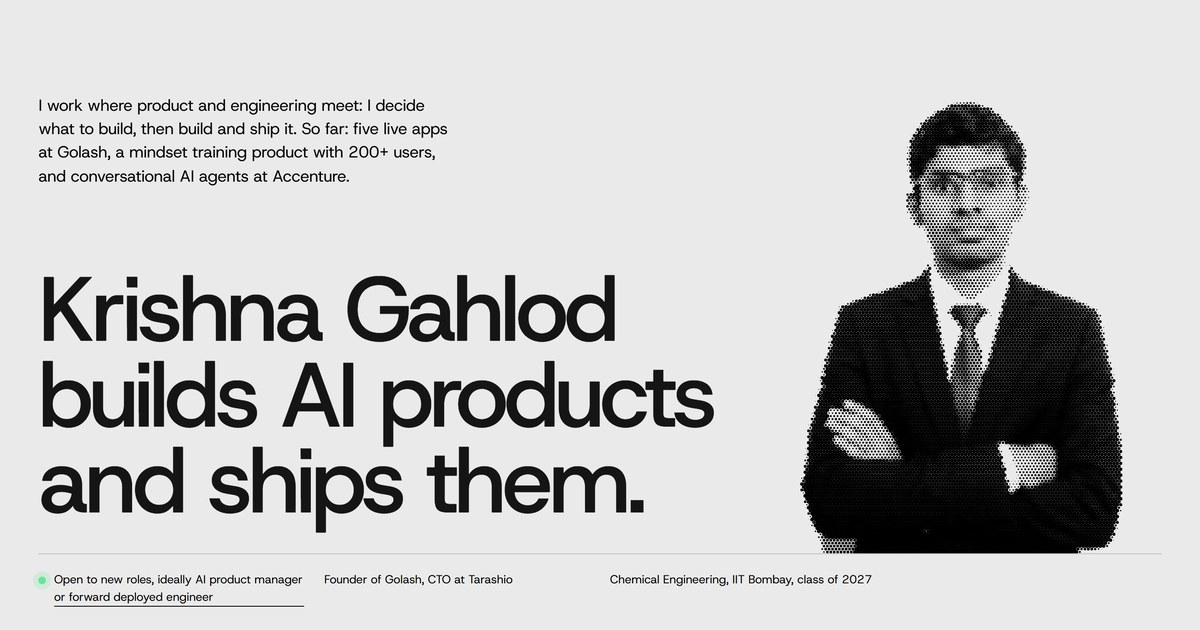
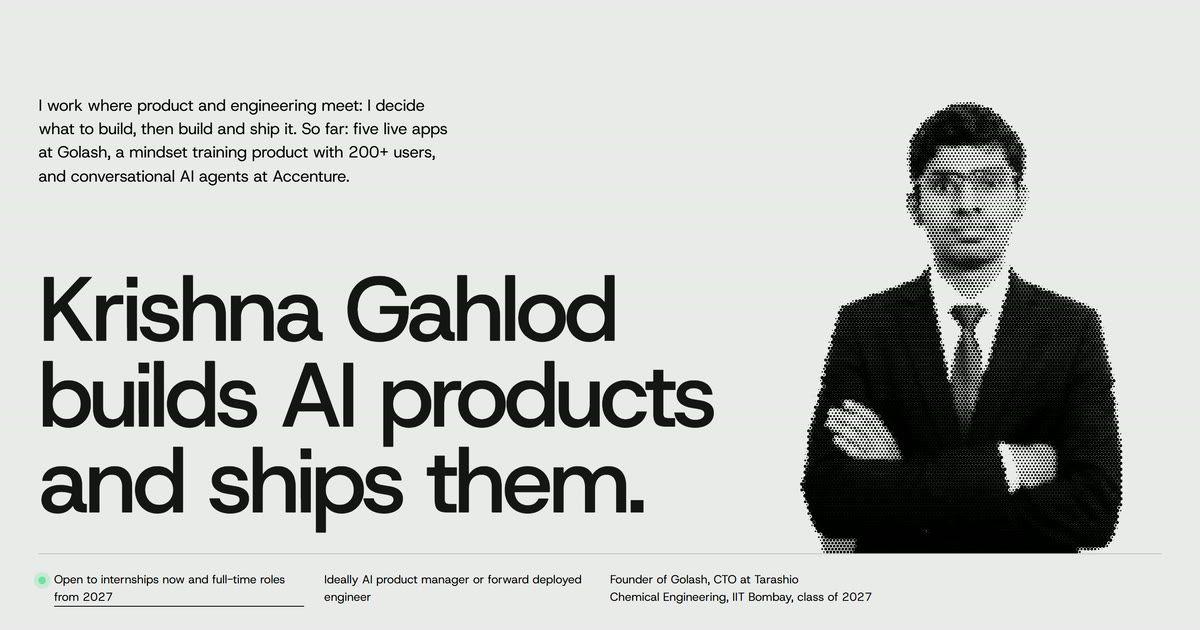
Availability line, accurate EdMe wording and visit counting
- Hero and contact say: internships now, full-time roles from 2027
- EdMe: first version of the app and website built by me, refined by the team since
- Vercel Analytics counts page visits (needs switching on in the dashboard)
- Phone menu bar is solid when a page opens part of the way down
- Link preview picture retaken with the new hero line

Changed region(s): [[0.0308, 0.9048, 0.74, 0.9651]]

diff --git a/src/content.ts b/src/content.ts
@@ -7,7 +7,8 @@ export const person = {
   github: "https://github.com/krishnagahlod",
   // The one-click résumé in the menu and the hero. The versions by role sit in the hiring section.
   resume: "/Krishna-Gahlod-Resume.pdf",
-  seeking: "Open to new roles, ideally AI product manager or forward deployed engineer",
+  seeking: "Open to internships now and full-time roles from 2027",
+  ideal: "Ideally AI product manager or forward deployed engineer",
   intro:
     "I work where product and engineering meet: I decide what to build, then build and ship it. So far: five live apps at Golash, a mindset training product with 200+ users, and conversational AI agents at Accenture.",
 };
@@ -478,9 +479,9 @@ export const experience = [
     when: "Nov 2025 to Jan 2026",
     deep: "#5C2500",
     bright: "#FFB27D",
-    summary: "Researched, designed and helped build the app and website for learners preparing for UPSC, JEE and NEET.",
+    summary: "Researched and designed the app and website for learners preparing for UPSC, JEE and NEET, and built the first version of both.",
     points: [
-      "Built the mobile app in Flutter and the website in React for 5,000+ active learners",
+      "Built the first version of the mobile app in Flutter and the website in React. The team has refined both since, and 5,000+ learners use them today",
       "Designed 12-screen flows and AI features that made navigation 20% more efficient",
     ],
   },

diff --git a/src/app/layout.tsx b/src/app/layout.tsx
@@ -1,3 +1,4 @@
+import { Analytics } from "@vercel/analytics/next";
 import type { Metadata } from "next";
 import { Host_Grotesk } from "next/font/google";
 import "lenis/dist/lenis.css";
@@ -10,7 +11,7 @@ import Nav from "@/components/Nav";
 const host = Host_Grotesk({ variable: "--font-host", subsets: ["latin"] });
 
 const description =
-  "Krishna Gahlod builds AI products and ships them. Founder of Golash, CTO at Tarashio, Chemical Engineering at IIT Bombay. Open to new roles, ideally AI product manager or forward deployed engineer.";
+  "Krishna Gahlod builds AI products and ships them. Founder of Golash, CTO at Tarashio, Chemical Engineering at IIT Bombay. Open to internships now and full-time roles from 2027, ideally AI product manager or forward deployed engineer.";
 
 export const metadata: Metadata = {
   metadataBase: new URL("https://krishna-gahlod.golash.in"),
@@ -43,6 +44,8 @@ export default function RootLayout({ children }: LayoutProps<"/">) {
             </LiveProvider>
           </CurtainProvider>
         </SmoothScroll>
+        {/* Counts visits, without cookies */}
+        <Analytics />
       </body>
     </html>
   );

diff --git a/src/components/Hero.tsx b/src/components/Hero.tsx
@@ -118,8 +118,12 @@ export default function Hero() {
             {person.seeking}
           </a>
         </p>
-        <p>Founder of Golash, CTO at Tarashio</p>
-        <p>Chemical Engineering, IIT Bombay, class of 2027</p>
+        <p>{person.ideal}</p>
+        <p>
+          Founder of Golash, CTO at Tarashio
+          <br />
+          Chemical Engineering, IIT Bombay, class of 2027
+        </p>
         <p className="md:text-right">
           <a href="#golash" className="link">
             Scroll to the work

diff --git a/src/components/Nav.tsx b/src/components/Nav.tsx
@@ -13,6 +13,8 @@ export default function Nav() {
   const [bar, setBar] = useState({ away: false, solid: false });
   useEffect(() => {
     let last = window.scrollY;
+    // A reload or the Back button can open the page part of the way down, before any scroll event arrives.
+    if (last > 120) setBar({ away: false, solid: true });
     const onScroll = () => {
       const y = window.scrollY;
       if (Math.abs(y - last) < 6) return;

diff --git a/src/components/Contact.tsx b/src/components/Contact.tsx
@@ -33,7 +33,7 @@ export default function Contact() {
       <div className="t-small flex flex-wrap justify-between gap-x-8 gap-y-2">
         <p className="flex items-center gap-3">
           <span aria-hidden className="live-dot" />
-          {person.seeking}
+          {person.seeking}. {person.ideal}.
         </p>
         <p className="text-dim">
           <MumbaiTime />
